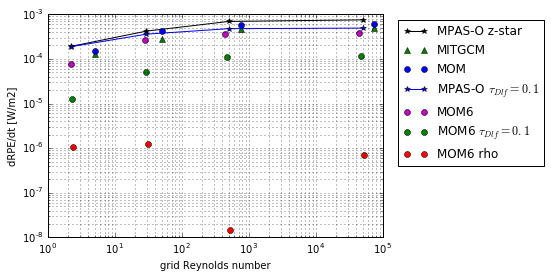
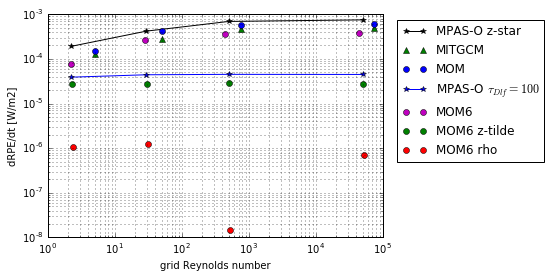
[writing]: Internal waves/lock exchange changes for Andy

diff --git a/writing/paper/internal-waves.md b/writing/paper/internal-waves.md
@@ -20,21 +20,20 @@ is added in the region $x_0 - L < x < x_0 + L$, where $L = 50\,\mathrm{km}$, $x_
 
 Considering the average rate of RPE change (Figure \ref{fig:drpe}), MOM6 performs well for each of the chosen vertical coordinates; z-star, z-tilde and continuous isopycnal (rho). This is likely due to its implementation as a layered model to while ALE is applied. In this configuration, vertical layers are able to move freely within their column as waves pass through. During horizontal advection, there is exactly zero transport through vertical interfaces, so mixing occurs only laterally through a mostly isopycnal layer. The vertical coordinate becomes more isopycnal with the z-tilde and rho coordinates, thus regridding causes smaller displacement of the interfaces. Subsequently, there is less vertical transport due to remapping and the overall spurious mixing is reduced.
 
-Using a modest restoring timescale for the z-tilde coordinate of 0.1 days sees an order of magnitude improvement over MPAS-O for the same restoring timescale.
+The implementation of the z-tilde coordinate differs between MOM6 and MPAS-O. The filter timescale $\tau_{Dlf}$ in MPAS-O defines the cutoff above which frequencies are treated in a Lagrangian manner. As MOM6 is a layered model, all motion is Lagrangian during a single timestep. The only controllable parameter in the MOM6 implementation of z-tilde is $\tau_{hhf}$, which defines the relaxation timescale of the grid, to prevent long-term drift. We set this to 30 days to match the configuration used for MPAS-O. MOM6 exhibits only a modest improvement over MPAS-O here, since most dynamically interesting scales are already captured by the 100 day Lagrangian timescale used by MPAS-O.
 
 ### Spurious mixing orientation
 
 ![\label{fig:drpesplit} *Spurious mixing orientation in MOM6, displayed as the averaged RPE rate of change for the horizontal and vertical components*](plots/internal_waves_drpe_split.png)
 
-We take the z-star configuration of MOM6 (shown in magenta in Figure \ref{fig:drpe}) and compute the orientation of the spurious mixing. When the grid Reynolds number is below 10, the horizontal component is smaller than the vertical. This is consistent with the conclusion of Ilicak et al. (2012), that the grid Reynolds number must be below 10 to avoid the saturation level of spurious mixing. In this regime, the vertical configuration such as coordinate or reconstruction accuracy can have a significant imapct on the overall spurious mixing.
+We take the z-star configuration of MOM6 (shown in magenta in Figure \ref{fig:drpe}) and compute the orientation of the spurious mixing. When $\mathrm{Re}_\Delta < 10$, the horizontal component is smaller than the vertical. This is consistent with the conclusion of Ilicak et al. (2012), that the grid Reynolds number must be below 10 to avoid the saturation level of spurious mixing. In this regime, the vertical configuration such as coordinate or reconstruction accuracy can have a significant imapct on the overall spurious mixing. There's a minimum in the vertical contribution at $\nu_h = 1$.
 
 ![\label{fig:tildesplit} *Relative contributions to spurious mixing for the z-tilde vertical coordinate by orientation. Each component is the fraction of the averaged total RPE rate of change shown in Figure \ref{fig:drpe}*](plots/internal_waves_tilde_split.png)
 
-Figure \ref{fig:tildesplit} shows the relative contributions to the total RPE rate of change by the horizontal and vertical components. Above a grid Reynolds number of 10, when spurious mixing is saturated, the vertical component acts as a strong negative compensation. 
+Figure \ref{fig:tildesplit} shows the relative contributions to the total RPE rate of change by the horizontal and vertical components. There is once again a minimum in the contribution by the vertical component at $\nu_h = 1$, corresponding to $\mathrm{Re}_\Delta \approx 450$.
 
 ### Other things?
-- Longer description of dRPE/dt results
-- Not sure what more to say about the "tilde split" result
+- Not sure what else to say about the split results
 - Explanation/exploration of continuous isopycnal coordinate
 - Poor behaviour of PLM remapping? -- importance of sufficiently high-order remapping scheme
     - We've kind of mentioned that it's a vertically dominated test case

diff --git a/writing/paper/lock-exchange.md b/writing/paper/lock-exchange.md
@@ -20,7 +20,7 @@ When calculating the grid Reynolds number, the theoretical front velocity is use
 
 ![\label{fig:drpe} Average rate of RPE change](plots/lock_exchange_drpe.png)
 
-> The normalised RPE time series in Figure \ref{fig:rpenorm} shows MOM6 having a similar shape to MitGCM and MOM5, however the normalisation is calculated based on the state after the first timestep. If MOM6 has a lower RPE in the first diagnosed timestep than the other models, this will appear as more spurious mixing than it might otherwise be. I need to normalise by the initial condition here!
+The time series of normalised RPE in Figure \ref{fig:rpenorm} shows MOM6 having a similar shape to MitGCM and MOM5. Curiously, it appears as though the magnitude of RPE is higher in MOM6 than the other models, contradicting the result shown in Figure \ref{fig:drpe}. One possible explanation is that the RPE of the initial state by which MOM6 is normalised is less than that of the other models. However, the RPE rate of change calculation uses the non-normalised RPE and shows the true behaviour.
 
 Below a grid Reynolds number of 10, MOM6 performs very similarly to the other models shown in Figure \ref{fig:drpe}. At this point, the models are running under the threshold for saturation of spurious mixing. However, in the limit of saturated spurious mixing, MOM6 exhibits a slightly lower averaged RPE rate of change. This suggests that MOM6 may tolerate a lower viscosity than other models of the same class.
 
@@ -36,6 +36,6 @@ Figure \ref{fig:rpesplit} shows that the mixing is predominantly due to horizont
 
 From a physical viewpoint, we expect RPE to be an increasing quantity. However, Figure \ref{fig:rpesplit} shows that the vertical process of regridding/remapping causes a small RPE decrease in these experiments. We illustrate a simple example that demonstrates how the combination of regridding/remapping may create a decrease in total potential energy. For a single column case, this is equivalent to the RPE, assuming no density inversions.
 
-![Placeholder schematic](plots/schematic.png)
+![A schematic demonstrating the ability for regridding/remapping to cause a decrease in RPE](plots/schematic.png)
 
 The solid rectangles show the grid cells after advection, where the column bottom is at $z = 0$. Regridding moves the interface between the cells to the dashed line, and remapping mixes the quantity $u'$ from the right cell to the left cell. With the condition that $u_1 > u_2$ (stable stratification), it is possible for $PE_f - PE_i < 0$ when the remapping is higher order than piecewise constant (PCM). PCM is the lowest order reconstruction, and gives $u' = u_1 \Delta h$, thus $PE_f - PE_i \ge 0$.
